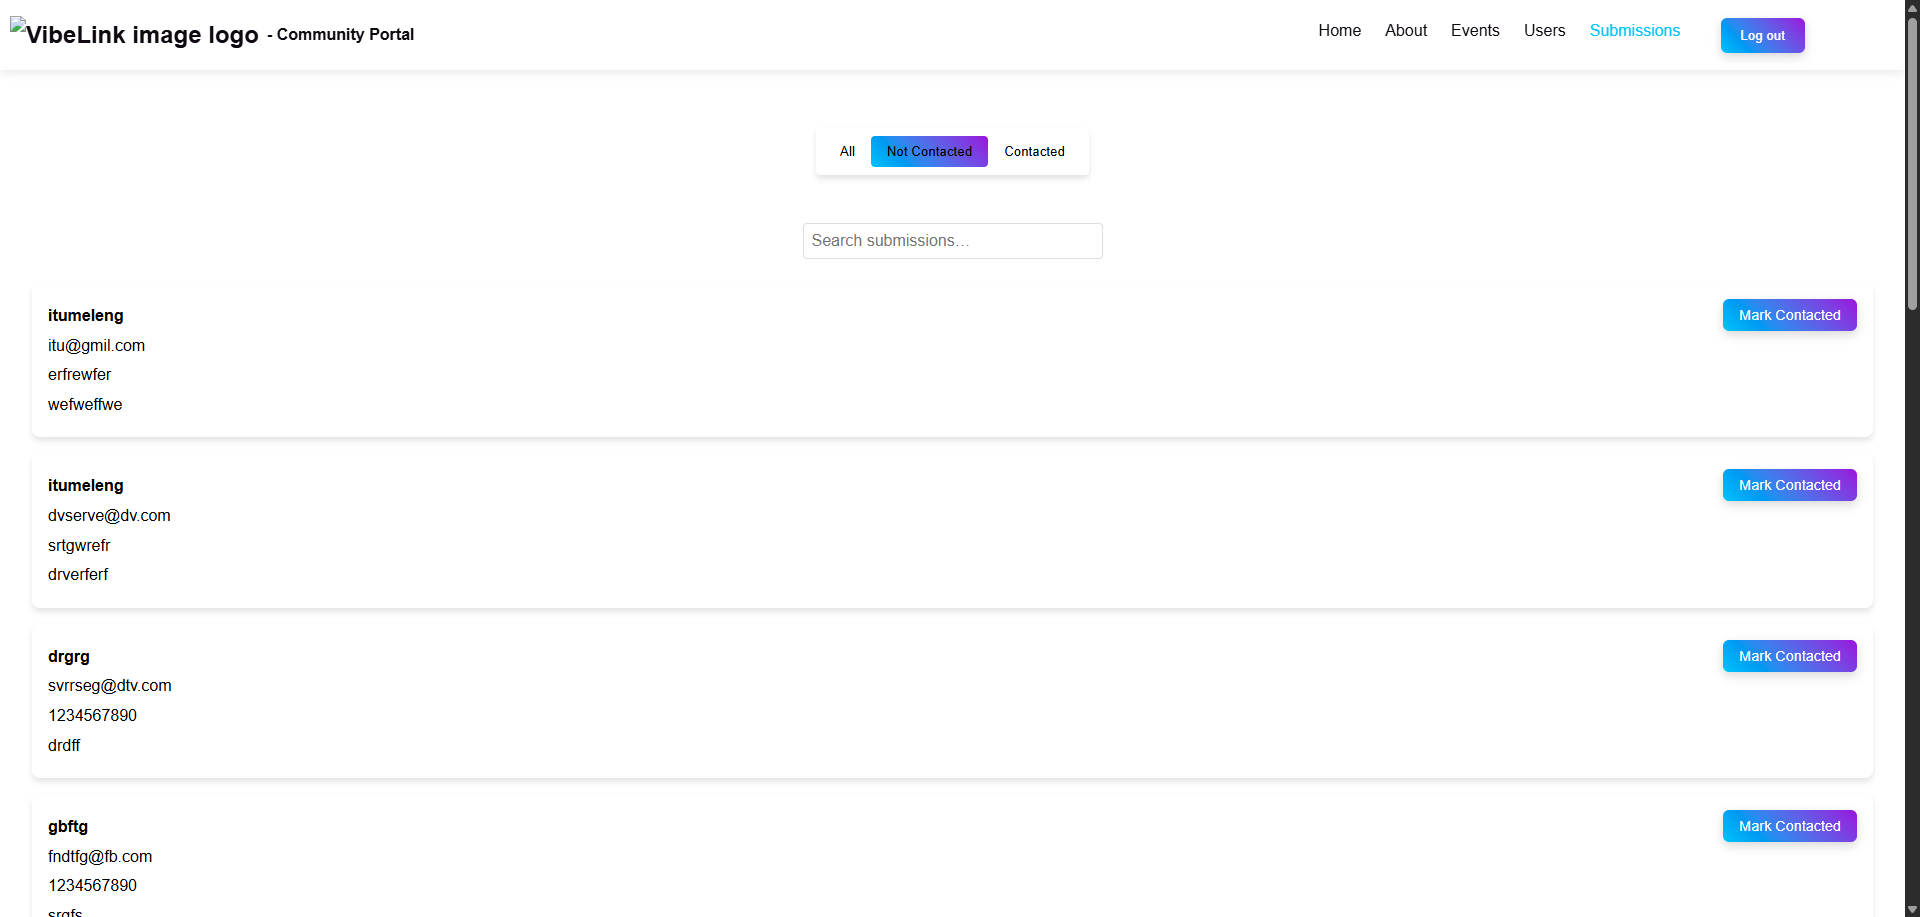
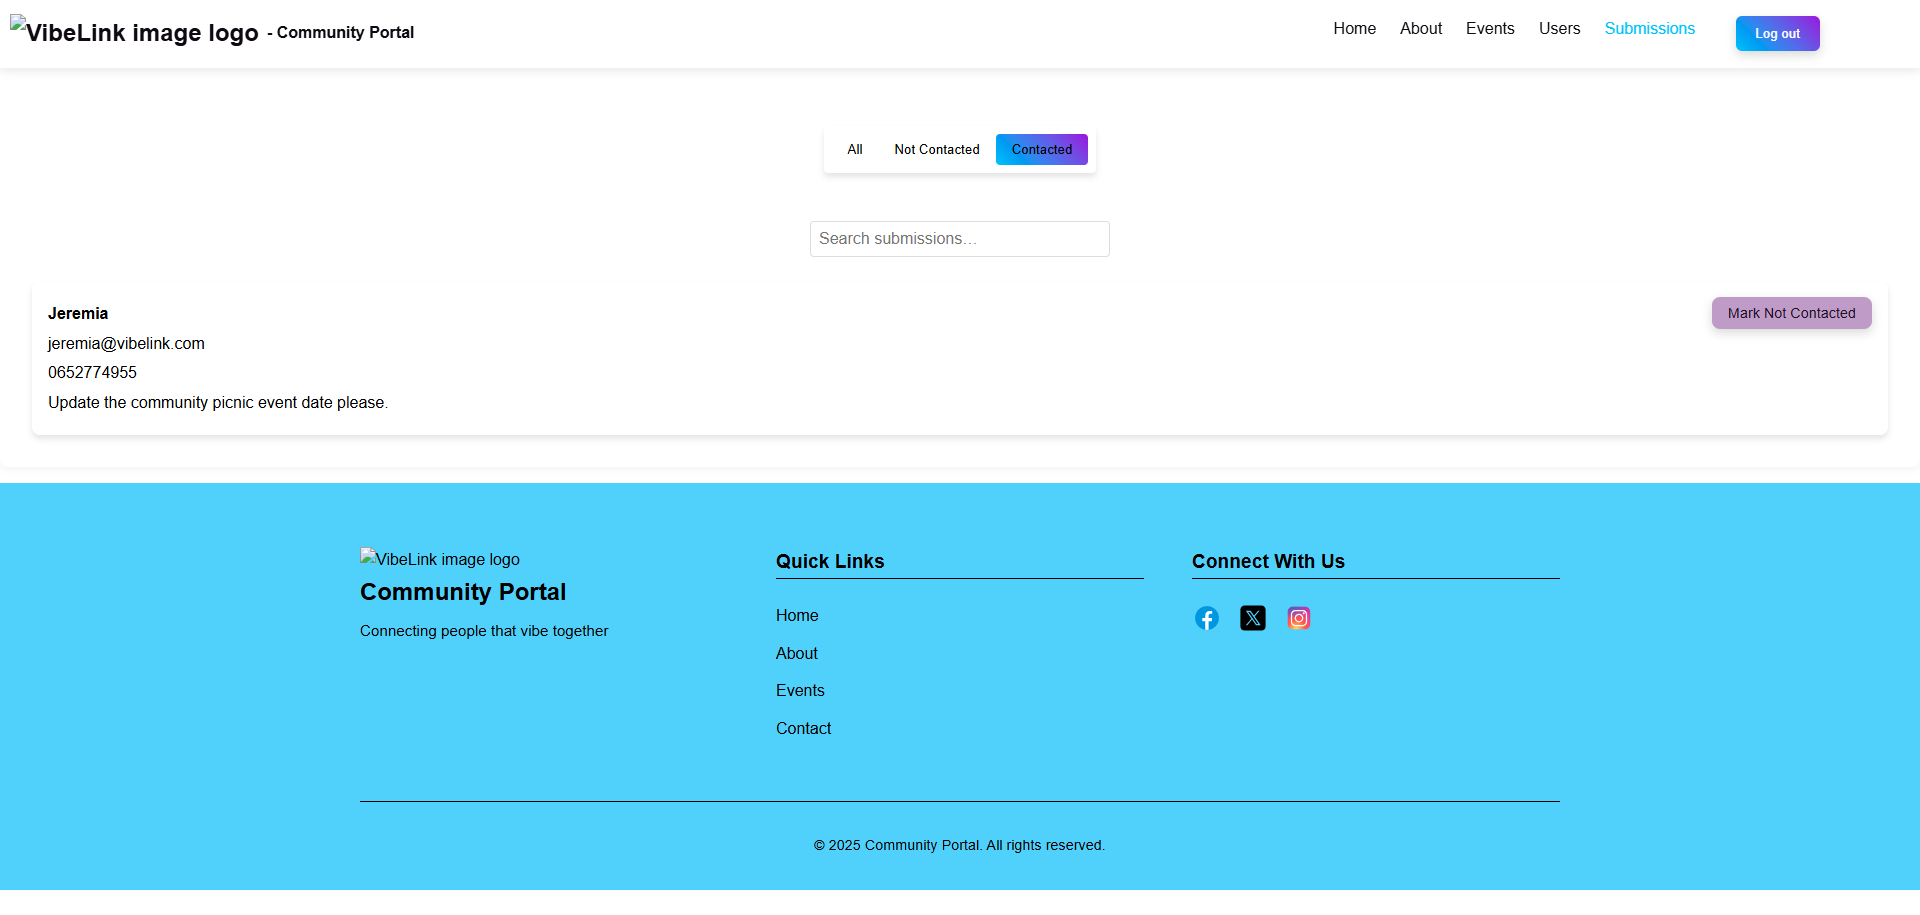
Add screenshots to readme

diff --git a/README.md b/README.md
@@ -54,15 +54,52 @@ A dynamic community portal website built with Node.js, Express, and EJS.
 
 ![Contact Page 2nd section](/public/images/Website%20Screenshots/Contact_page_2nd_section.png?raw=true "Contact Page 2nd section")
 
+### Thank you page (Appears after a contact form submission)
+![Thank you page](/public/images/Website%20Screenshots/Thank_you_page.png?raw=true "Thank you page")
+
+
 ## Screenshots from the admin perspective
 
-### Home Page screenshots
+### Home Page screenshots (The only difference being the nav bar that changes)
+![Admin home page](/public/images/Website%20Screenshots/Home_page_1st_section.png?raw=true "Home Page 1st section")
 
 ### About Page screenshots
 
-### Events Page screenshots
+Stays the same as on the regular user page
 
-### Contact Page screenshots
+### Events Page screenshots
+![Admin events Page](/public/images/Website%20Screenshots/Admin_events.png?raw=true "Admin events Page")
+
+#### Button create event click on events page
+![Admin events Page btn add](/public/images/Website%20Screenshots/Admin_event_create_btn_click.png?raw=true "Admin events Page btn add")
+
+#### Button delete event click on events page
+![Admin events Page btn delete](/public/images/Website%20Screenshots/Admin_event_delete_btn_click.png?raw=true "Admin events Page btn delete")
+
+#### Button update event click on events page
+![Admin events Page btn update](/public/images/Website%20Screenshots/Admin_events_update_btn_click.png?raw=true "Admin events Page btn update")
+
+### Users Page
+![Admin users Page](/public/images/Website%20Screenshots/Admin_Users_page.png?raw=true "Admin events Page")
+
+#### Button new user click on users page
+![Admin users Page btn add](/public/images/Website%20Screenshots/Admin_Users_addUser_btn_click.png?raw=true "Admin users Page btn add")
+
+#### Button delete user click on users page
+![Admin users Page btn delete](/public/images/Website%20Screenshots/Admin_Users_delete_btn_click.png?raw=true "Admin users Page btn delete")
+
+#### Button update user click on users page
+![Admin users Page btn delete](/public/images/Website%20Screenshots/Admin_Users_update_btn_click.png?raw=true "Admin users Page btn update")
+
+### Submissions Page (No filter applied)
+![Admin submissions Page](/public/images/Website%20Screenshots/Admin_submissions_not_filtered.png?raw=true "Admin submissions Page")
+
+### Submissions Page (Filter applied)
+![Admin submissions Page](/public/images/Website%20Screenshots/Admin_Submissions_filtered.png?raw=true "Admin submissions Page")
+
+
+
+#### Button update user click on users page
 
 ## Reflection
 
